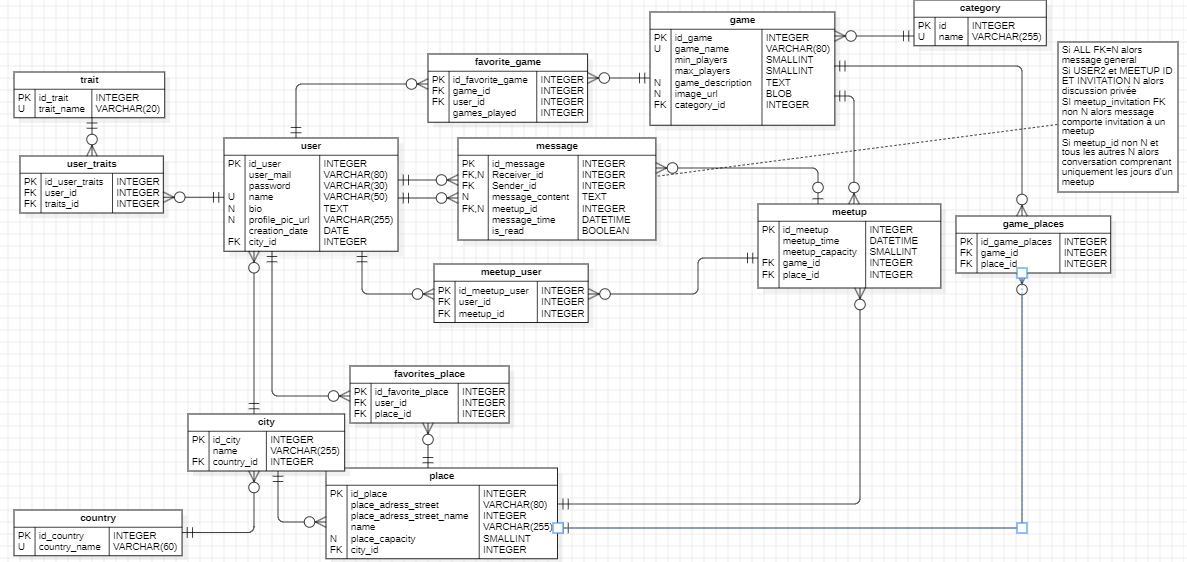
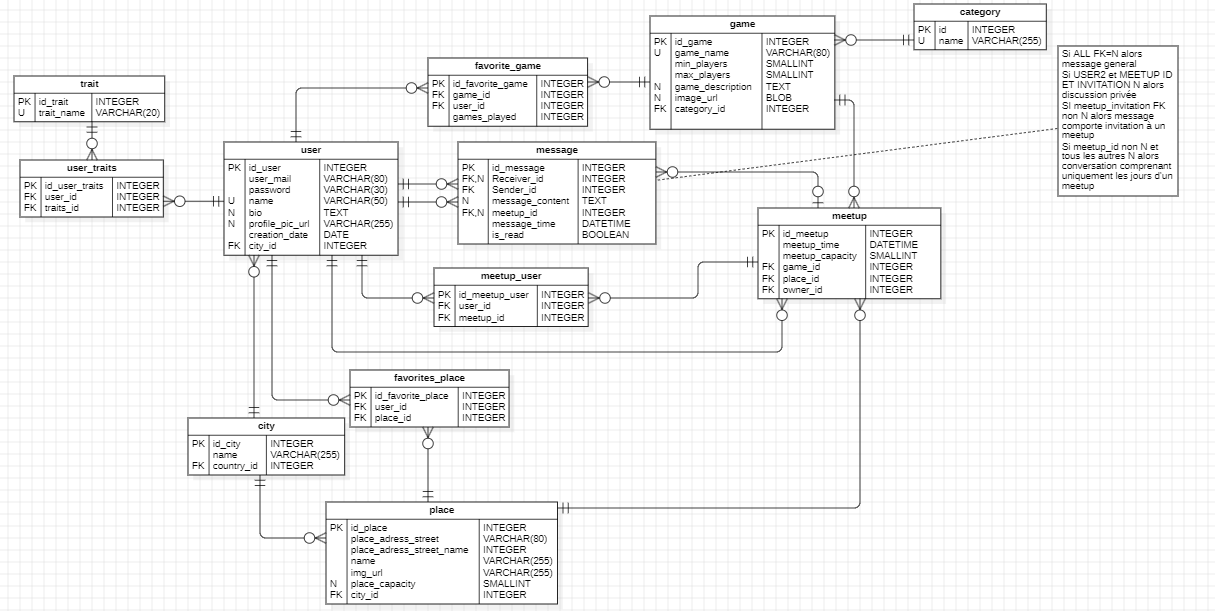
functional detail

Changed region(s): [[0.0, 0.0, 0.9975, 0.9982], [0.0, 0.9075, 0.187, 0.9982]]

diff --git a/migrations/Version20250920143640.php b/migrations/Version20250920143640.php
@@ -10,7 +10,7 @@ use Doctrine\Migrations\AbstractMigration;
 /**
  * Auto-generated Migration: Please modify to your needs!
  */
-final class Version20250910091659 extends AbstractMigration
+final class Version20250920143640 extends AbstractMigration
 {
     public function getDescription(): string
     {
@@ -25,11 +25,10 @@ final class Version20250910091659 extends AbstractMigration
         $this->addSql('CREATE TABLE favorite_game (id INT AUTO_INCREMENT NOT NULL, game_id INT DEFAULT NULL, user_id INT DEFAULT NULL, games_played INT NOT NULL, INDEX IDX_CD2D28B3E48FD905 (game_id), INDEX IDX_CD2D28B3A76ED395 (user_id), PRIMARY KEY(id)) DEFAULT CHARACTER SET utf8mb4 COLLATE `utf8mb4_unicode_ci` ENGINE = InnoDB');
         $this->addSql('CREATE TABLE favorite_place (id INT AUTO_INCREMENT NOT NULL, user_id INT DEFAULT NULL, place_id INT DEFAULT NULL, INDEX IDX_C29578E9A76ED395 (user_id), INDEX IDX_C29578E9DA6A219 (place_id), PRIMARY KEY(id)) DEFAULT CHARACTER SET utf8mb4 COLLATE `utf8mb4_unicode_ci` ENGINE = InnoDB');
         $this->addSql('CREATE TABLE game (id INT AUTO_INCREMENT NOT NULL, category_id INT DEFAULT NULL, name VARCHAR(255) NOT NULL, min_players INT NOT NULL, max_players INT NOT NULL, description LONGTEXT DEFAULT NULL, img_url VARCHAR(255) DEFAULT NULL, INDEX IDX_232B318C12469DE2 (category_id), PRIMARY KEY(id)) DEFAULT CHARACTER SET utf8mb4 COLLATE `utf8mb4_unicode_ci` ENGINE = InnoDB');
-        $this->addSql('CREATE TABLE meetup (id INT AUTO_INCREMENT NOT NULL, game_id INT DEFAULT NULL, place_id INT DEFAULT NULL, time DATETIME NOT NULL COMMENT \'(DC2Type:datetime_immutable)\', capacity INT NOT NULL, INDEX IDX_9377E28E48FD905 (game_id), INDEX IDX_9377E28DA6A219 (place_id), PRIMARY KEY(id)) DEFAULT CHARACTER SET utf8mb4 COLLATE `utf8mb4_unicode_ci` ENGINE = InnoDB');
+        $this->addSql('CREATE TABLE meetup (id INT AUTO_INCREMENT NOT NULL, game_id INT DEFAULT NULL, place_id INT DEFAULT NULL, owner_id INT NOT NULL, time DATETIME NOT NULL COMMENT \'(DC2Type:datetime_immutable)\', capacity INT NOT NULL, INDEX IDX_9377E28E48FD905 (game_id), INDEX IDX_9377E28DA6A219 (place_id), INDEX IDX_9377E287E3C61F9 (owner_id), PRIMARY KEY(id)) DEFAULT CHARACTER SET utf8mb4 COLLATE `utf8mb4_unicode_ci` ENGINE = InnoDB');
         $this->addSql('CREATE TABLE message (id INT AUTO_INCREMENT NOT NULL, meetup_id INT DEFAULT NULL, receiver_id INT DEFAULT NULL, sender_id INT NOT NULL, content LONGTEXT NOT NULL, time DATETIME NOT NULL COMMENT \'(DC2Type:datetime_immutable)\', is_read TINYINT(1) NOT NULL, INDEX IDX_B6BD307F591E2316 (meetup_id), INDEX IDX_B6BD307FCD53EDB6 (receiver_id), INDEX IDX_B6BD307FF624B39D (sender_id), PRIMARY KEY(id)) DEFAULT CHARACTER SET utf8mb4 COLLATE `utf8mb4_unicode_ci` ENGINE = InnoDB');
         $this->addSql('CREATE TABLE personality_trait (id INT AUTO_INCREMENT NOT NULL, name VARCHAR(255) NOT NULL, PRIMARY KEY(id)) DEFAULT CHARACTER SET utf8mb4 COLLATE `utf8mb4_unicode_ci` ENGINE = InnoDB');
-        $this->addSql('CREATE TABLE place (id INT AUTO_INCREMENT NOT NULL, city_id INT DEFAULT NULL, adress_street VARCHAR(255) NOT NULL, adress_number INT NOT NULL, capacity INT DEFAULT NULL, name VARCHAR(255) NOT NULL, INDEX IDX_741D53CD8BAC62AF (city_id), PRIMARY KEY(id)) DEFAULT CHARACTER SET utf8mb4 COLLATE `utf8mb4_unicode_ci` ENGINE = InnoDB');
-        $this->addSql('CREATE TABLE place_game (place_id INT NOT NULL, game_id INT NOT NULL, INDEX IDX_E99E4160DA6A219 (place_id), INDEX IDX_E99E4160E48FD905 (game_id), PRIMARY KEY(place_id, game_id)) DEFAULT CHARACTER SET utf8mb4 COLLATE `utf8mb4_unicode_ci` ENGINE = InnoDB');
+        $this->addSql('CREATE TABLE place (id INT AUTO_INCREMENT NOT NULL, city_id INT DEFAULT NULL, adress_street VARCHAR(255) NOT NULL, adress_number INT NOT NULL, capacity INT DEFAULT NULL, name VARCHAR(255) NOT NULL, img_url VARCHAR(255) NOT NULL, INDEX IDX_741D53CD8BAC62AF (city_id), PRIMARY KEY(id)) DEFAULT CHARACTER SET utf8mb4 COLLATE `utf8mb4_unicode_ci` ENGINE = InnoDB');
         $this->addSql('CREATE TABLE user (id INT AUTO_INCREMENT NOT NULL, city_id INT DEFAULT NULL, email VARCHAR(180) NOT NULL, roles JSON NOT NULL, password VARCHAR(255) NOT NULL, bio LONGTEXT DEFAULT NULL, img_url VARCHAR(255) DEFAULT NULL, creation_date DATETIME NOT NULL COMMENT \'(DC2Type:datetime_immutable)\', name VARCHAR(255) NOT NULL, INDEX IDX_8D93D6498BAC62AF (city_id), UNIQUE INDEX UNIQ_IDENTIFIER_EMAIL (email), PRIMARY KEY(id)) DEFAULT CHARACTER SET utf8mb4 COLLATE `utf8mb4_unicode_ci` ENGINE = InnoDB');
         $this->addSql('CREATE TABLE user_personality_trait (user_id INT NOT NULL, personality_trait_id INT NOT NULL, INDEX IDX_A73D5927A76ED395 (user_id), INDEX IDX_A73D5927D673EC81 (personality_trait_id), PRIMARY KEY(user_id, personality_trait_id)) DEFAULT CHARACTER SET utf8mb4 COLLATE `utf8mb4_unicode_ci` ENGINE = InnoDB');
         $this->addSql('CREATE TABLE user_meetup (user_id INT NOT NULL, meetup_id INT NOT NULL, INDEX IDX_6C656515A76ED395 (user_id), INDEX IDX_6C656515591E2316 (meetup_id), PRIMARY KEY(user_id, meetup_id)) DEFAULT CHARACTER SET utf8mb4 COLLATE `utf8mb4_unicode_ci` ENGINE = InnoDB');
@@ -40,12 +39,11 @@ final class Version20250910091659 extends AbstractMigration
         $this->addSql('ALTER TABLE game ADD CONSTRAINT FK_232B318C12469DE2 FOREIGN KEY (category_id) REFERENCES category (id)');
         $this->addSql('ALTER TABLE meetup ADD CONSTRAINT FK_9377E28E48FD905 FOREIGN KEY (game_id) REFERENCES game (id)');
         $this->addSql('ALTER TABLE meetup ADD CONSTRAINT FK_9377E28DA6A219 FOREIGN KEY (place_id) REFERENCES place (id)');
+        $this->addSql('ALTER TABLE meetup ADD CONSTRAINT FK_9377E287E3C61F9 FOREIGN KEY (owner_id) REFERENCES user (id)');
         $this->addSql('ALTER TABLE message ADD CONSTRAINT FK_B6BD307F591E2316 FOREIGN KEY (meetup_id) REFERENCES meetup (id)');
         $this->addSql('ALTER TABLE message ADD CONSTRAINT FK_B6BD307FCD53EDB6 FOREIGN KEY (receiver_id) REFERENCES user (id)');
         $this->addSql('ALTER TABLE message ADD CONSTRAINT FK_B6BD307FF624B39D FOREIGN KEY (sender_id) REFERENCES user (id)');
         $this->addSql('ALTER TABLE place ADD CONSTRAINT FK_741D53CD8BAC62AF FOREIGN KEY (city_id) REFERENCES city (id)');
-        $this->addSql('ALTER TABLE place_game ADD CONSTRAINT FK_E99E4160DA6A219 FOREIGN KEY (place_id) REFERENCES place (id) ON DELETE CASCADE');
-        $this->addSql('ALTER TABLE place_game ADD CONSTRAINT FK_E99E4160E48FD905 FOREIGN KEY (game_id) REFERENCES game (id) ON DELETE CASCADE');
         $this->addSql('ALTER TABLE user ADD CONSTRAINT FK_8D93D6498BAC62AF FOREIGN KEY (city_id) REFERENCES city (id)');
         $this->addSql('ALTER TABLE user_personality_trait ADD CONSTRAINT FK_A73D5927A76ED395 FOREIGN KEY (user_id) REFERENCES user (id) ON DELETE CASCADE');
         $this->addSql('ALTER TABLE user_personality_trait ADD CONSTRAINT FK_A73D5927D673EC81 FOREIGN KEY (personality_trait_id) REFERENCES personality_trait (id) ON DELETE CASCADE');
@@ -63,12 +61,11 @@ final class Version20250910091659 extends AbstractMigration
         $this->addSql('ALTER TABLE game DROP FOREIGN KEY FK_232B318C12469DE2');
         $this->addSql('ALTER TABLE meetup DROP FOREIGN KEY FK_9377E28E48FD905');
         $this->addSql('ALTER TABLE meetup DROP FOREIGN KEY FK_9377E28DA6A219');
+        $this->addSql('ALTER TABLE meetup DROP FOREIGN KEY FK_9377E287E3C61F9');
         $this->addSql('ALTER TABLE message DROP FOREIGN KEY FK_B6BD307F591E2316');
         $this->addSql('ALTER TABLE message DROP FOREIGN KEY FK_B6BD307FCD53EDB6');
         $this->addSql('ALTER TABLE message DROP FOREIGN KEY FK_B6BD307FF624B39D');
         $this->addSql('ALTER TABLE place DROP FOREIGN KEY FK_741D53CD8BAC62AF');
-        $this->addSql('ALTER TABLE place_game DROP FOREIGN KEY FK_E99E4160DA6A219');
-        $this->addSql('ALTER TABLE place_game DROP FOREIGN KEY FK_E99E4160E48FD905');
         $this->addSql('ALTER TABLE user DROP FOREIGN KEY FK_8D93D6498BAC62AF');
         $this->addSql('ALTER TABLE user_personality_trait DROP FOREIGN KEY FK_A73D5927A76ED395');
         $this->addSql('ALTER TABLE user_personality_trait DROP FOREIGN KEY FK_A73D5927D673EC81');
@@ -83,7 +80,6 @@ final class Version20250910091659 extends AbstractMigration
         $this->addSql('DROP TABLE message');
         $this->addSql('DROP TABLE personality_trait');
         $this->addSql('DROP TABLE place');
-        $this->addSql('DROP TABLE place_game');
         $this->addSql('DROP TABLE user');
         $this->addSql('DROP TABLE user_personality_trait');
         $this->addSql('DROP TABLE user_meetup');

diff --git a/src/Serializer/Normalizer/UserNormalizer.php b/src/Serializer/Normalizer/UserNormalizer.php
@@ -17,6 +17,7 @@ class UserNormalizer implements NormalizerInterface
     public function normalize($object, ?string $format = null, array $context = []): array
     {
         $baseUrl = 'http://localhost:8000'; // A CHANGER SI DEPLOIEMENT SERVEUR
+        $maxfavorites = 3; // Nombre maximum de jeux et bars favoris à afficher
 
         $data["id"] = $object->getId();
         $data["name"] = $object->getName();
@@ -34,6 +35,35 @@ class UserNormalizer implements NormalizerInterface
         $data['bio'] = $object->getBio();
         foreach ($object->getPersonalityTraits() as $trait) {
             $data['traits'][] = ['id' => $trait->getId(), 'name' => $trait->getName()];
+        }
+
+        if (!empty($context['add_favorites']) && $context['add_favorites'] === true) {
+            $data['favoritesGames'] = [];
+            $count = 0;
+            foreach ($object->getFavoriteGames() as $favoriteGame) {
+                if ($count >= $maxfavorites) {
+                    break;
+                }
+                $game = $favoriteGame->getGame();
+                if (!$game) {
+                    continue; 
+                }
+                $data['favoritesGames'][] = ['id' => $game->getId(), 'name' => $game->getName(),'playedTimes' => $favoriteGame->getGamesPlayed(),'imgUrl' => $game->getImgUrl()];
+                $count++;
+            }
+            $data['favoritesPlaces'] = [];
+            $count = 0;
+            foreach ($object->getFavoritePlaces() as $favoritePlace) {
+                if ($count >= $maxfavorites) {
+                    break;
+                }
+                $place = $favoritePlace->getPlace();
+                if (!$place) {
+                    continue;
+                }
+                $data['favoritesPlaces'][] = ['id' => $place->getId(), 'name' => $place->getName(),'imgUrl' => $place->getImgUrl(),'location' => $place->getCity()->getName()];
+                $count++;
+            }
         }
         
 

diff --git a/src/Entity/Place.php b/src/Entity/Place.php
@@ -34,12 +34,7 @@ class Place
     #[ORM\OneToMany(targetEntity: FavoritePlace::class, mappedBy: 'place')]
     private Collection $favoritePlaces;
 
-    /**
-     * @var Collection<int, Game>
-     */
-    #[ORM\ManyToMany(targetEntity: Game::class, inversedBy: 'places')]
-    private Collection $games;
-
+    
     /**
      * @var Collection<int, Meetup>
      */
@@ -49,10 +44,12 @@ class Place
     #[ORM\Column(length: 255)]
     private ?string $name = null;
 
+    #[ORM\Column(length: 255)]
+    private ?string $img_url = null;
+
     public function __construct()
     {
         $this->favoritePlaces = new ArrayCollection();
-        $this->games = new ArrayCollection();
         $this->meetups = new ArrayCollection();
     }
 
@@ -139,29 +136,7 @@ class Place
         return $this;
     }
 
-    /**
-     * @return Collection<int, Game>
-     */
-    public function getGames(): Collection
-    {
-        return $this->games;
-    }
-
-    public function addGame(Game $game): static
-    {
-        if (!$this->games->contains($game)) {
-            $this->games->add($game);
-        }
-
-        return $this;
-    }
-
-    public function removeGame(Game $game): static
-    {
-        $this->games->removeElement($game);
-
-        return $this;
-    }
+   
 
     /**
      * @return Collection<int, Meetup>
@@ -201,6 +176,18 @@ class Place
     public function setName(string $name): static
     {
         $this->name = $name;
+
+        return $this;
+    }
+
+    public function getImgUrl(): ?string
+    {
+        return $this->img_url;
+    }
+
+    public function setImgUrl(string $img_url): static
+    {
+        $this->img_url = $img_url;
 
         return $this;
     }

diff --git a/src/DataFixtures/AppFixtures.php b/src/DataFixtures/AppFixtures.php
@@ -69,7 +69,7 @@ class AppFixtures extends Fixture
                 ->setMinPlayers($gameData['min_players'])
                 ->setMaxPlayers($gameData['max_players'])
                 ->setCategory($categories[array_rand($categories)])
-                ->setImgUrl($faker->imageUrl(400, 400, 'games', true, 'Faker'))
+                ->setImgUrl("https://picsum.photos/320/240?random=" . $faker->unique()->numberBetween(1, 1000))
                 ->setDescription($faker->paragraph());
             $manager->persist($game);
             $games[] = $game;
@@ -83,21 +83,12 @@ class AppFixtures extends Fixture
                 ->setCity($cities[array_rand($cities)])
                 ->setAdressStreet($faker->streetName())
                 ->setAdressNumber($faker->numberBetween(1, 100))
-                ->setCapacity($faker->numberBetween(10, 100));
+                ->setCapacity($faker->numberBetween(10, 100))
+                ->setImgUrl("https://picsum.photos/320/240?random=" . $faker->unique()->numberBetween(1, 1000));
             $manager->persist($place);
             $places[] = $place;
         }
 
-        //GAMES / PLACES
-            foreach ($games as $game) {
-                $placeCount = rand(1, 5);
-                $selectedPlaces = (array)array_rand($places, $placeCount);
-                foreach ($selectedPlaces as $placeIndex) {
-                    $game->addPlace($places[$placeIndex]);
-                }
-            }
-
-        
 
         //USERS
         $users = [];

diff --git a/src/Entity/Game.php b/src/Entity/Game.php
@@ -44,12 +44,7 @@ class Game
     #[ORM\OneToMany(targetEntity: FavoriteGame::class, mappedBy: 'game')]
     private Collection $favoriteGames;
 
-    /**
-     * @var Collection<int, Place>
-     */
-    #[ORM\ManyToMany(targetEntity: Place::class, mappedBy: 'games')]
-    private Collection $places;
-
+    
     /**
      * @var Collection<int, Meetup>
      */
@@ -59,7 +54,6 @@ class Game
     public function __construct()
     {
         $this->favoriteGames = new ArrayCollection();
-        $this->places = new ArrayCollection();
         $this->meetups = new ArrayCollection();
     }
 
@@ -171,33 +165,7 @@ class Game
         return $this;
     }
 
-    /**
-     * @return Collection<int, Place>
-     */
-    public function getPlaces(): Collection
-    {
-        return $this->places;
-    }
-
-    public function addPlace(Place $place): static
-    {
-        if (!$this->places->contains($place)) {
-            $this->places->add($place);
-            $place->addGame($this);
-        }
-
-        return $this;
-    }
-
-    public function removePlace(Place $place): static
-    {
-        if ($this->places->removeElement($place)) {
-            $place->removeGame($this);
-        }
-
-        return $this;
-    }
-
+   
     /**
      * @return Collection<int, Meetup>
      */

diff --git a/src/Serializer/Normalizer/PlaceNormalizer.php b/src/Serializer/Normalizer/PlaceNormalizer.php
@@ -1,0 +1,38 @@
+<?php
+
+namespace App\Serializer\Normalizer;
+
+use App\Entity\Place;
+use Symfony\Component\DependencyInjection\Attribute\Autowire;
+use Symfony\Component\Serializer\Normalizer\NormalizerInterface;
+
+class PlaceNormalizer implements NormalizerInterface
+{
+    public function __construct(
+        #[Autowire(service: 'serializer.normalizer.object')]
+        private NormalizerInterface $normalizer
+    ) {
+    }
+
+    public function normalize($object, ?string $format = null, array $context = []): array
+    {
+
+        $data['id'] = $object->getId();
+        $data['name'] = $object->getName();
+        $data['capacity'] = $object->getCapacity();
+        $data['imgUrl'] = $object->getImgUrl();
+        $data['location'] = $object->getAdressNumber() . ' ' .$object->getAdressStreet() ;
+ 
+        return $data;
+    }
+
+    public function supportsNormalization($data, ?string $format = null, array $context = []): bool
+    {
+        return $data instanceof Place;
+    }
+
+    public function getSupportedTypes(?string $format): array
+    {
+        return [Place::class => true];
+    }
+}

diff --git a/src/Controller/UserController.php b/src/Controller/UserController.php
@@ -28,7 +28,7 @@ final class UserController extends AbstractController
             return $this->json(['error' => 'Utilisateur non authentifié'], 401);
         }
 
-        return $this->json($user, 200);
+        return $this->json($user, 200,[], ['add_favorites' => true]);
     }
 
     #[Route('/api/private/users/me', name: 'user_update', methods: ['PATCH', 'POST'])]
@@ -57,8 +57,6 @@ final class UserController extends AbstractController
             $files = $request->files;
         }
 
-        // --- Debug temporaire (optionnel) ---
-        // $this->get('logger')->info('updateUser payload: ' . json_encode($data));
 
         // --- Name ---
         if (isset($data['name'])) {
@@ -133,7 +131,7 @@ final class UserController extends AbstractController
             return $this->json(['error' => 'Utilisateur non trouvé'], 404);
         }
 
-        return $this->json($user);
+        return $this->json($user, 200, [], ['add_favorites' => true]);
     }
 
 

diff --git a/src/Controller/PlaceController.php b/src/Controller/PlaceController.php
@@ -2,6 +2,7 @@
 
 namespace App\Controller;
 
+use App\Repository\PlaceRepository;
 use Symfony\Bundle\FrameworkBundle\Controller\AbstractController;
 use Symfony\Component\HttpFoundation\Request;
 use Symfony\Component\HttpFoundation\Response;
@@ -9,12 +10,15 @@ use Symfony\Component\Routing\Attribute\Route;
 
 final class PlaceController extends AbstractController
 {
-    #[Route('/place', name: 'app_place')]
-    public function index(): Response
+    #[Route('/api/private/places/{id}', name: 'app_game_details', methods: ['GET'])]
+    public function getDetails(PlaceRepository $placeRepository, int $id): Response
     {
-        return $this->render('place/index.html.twig', [
-            'controller_name' => 'PlaceController',
-        ]);
+        $place = $placeRepository->find($id);
+        if (!$place) {
+            return $this->json(['error' => 'Endroit non trouvé'], 404);
+        }
+
+        return $this->json($place, 200);
     }
 
    

diff --git a/src/Controller/GameController.php b/src/Controller/GameController.php
@@ -10,13 +10,22 @@ use Symfony\Component\Routing\Attribute\Route;
 
 final class GameController extends AbstractController
 {
-    #[Route('/api/games', name: 'app_game', methods: ['GET'])]
+    #[Route('/api/private/games', name: 'app_game', methods: ['GET'])]
     public function getAll(GameRepository $gameRepository): Response
     {
         $games = $gameRepository->findAll();
 
-        return $this->json($games, 200, [] ,['groups' => 'game:read']);
+        return $this->json($games, 200);
     }
 
-   
+    #[Route('/api/private/games/{id}', name: 'app_game_details', methods: ['GET'])]
+    public function getDetails(GameRepository $gameRepository, int $id): Response
+    {
+        $game = $gameRepository->find($id);
+        if (!$game) {
+            return $this->json(['error' => 'Jeu non trouvé'], 404);
+        }
+
+        return $this->json($game, 200);
+    }
 }
